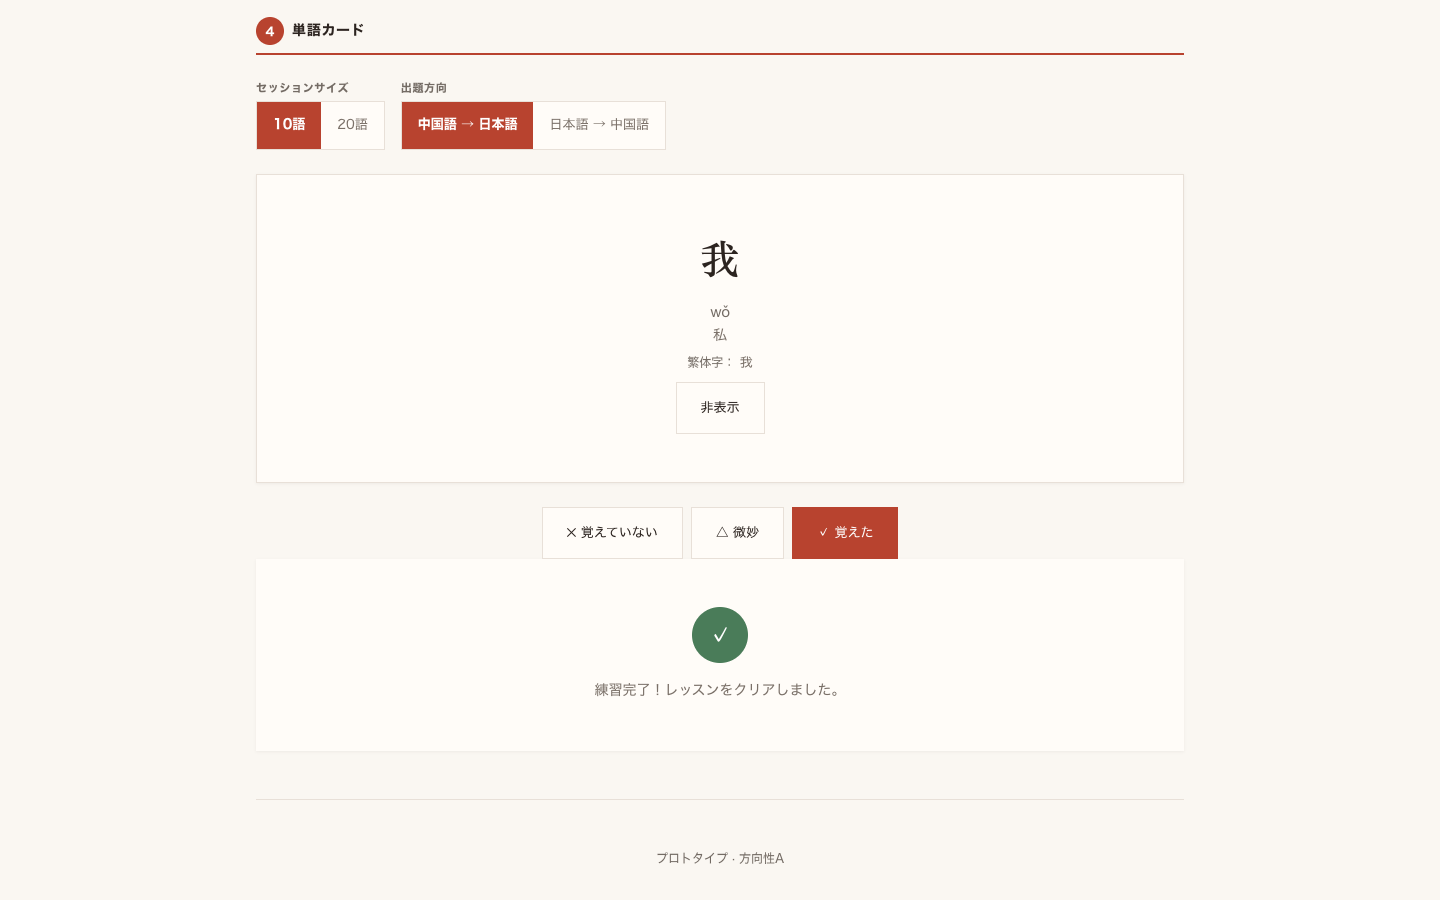
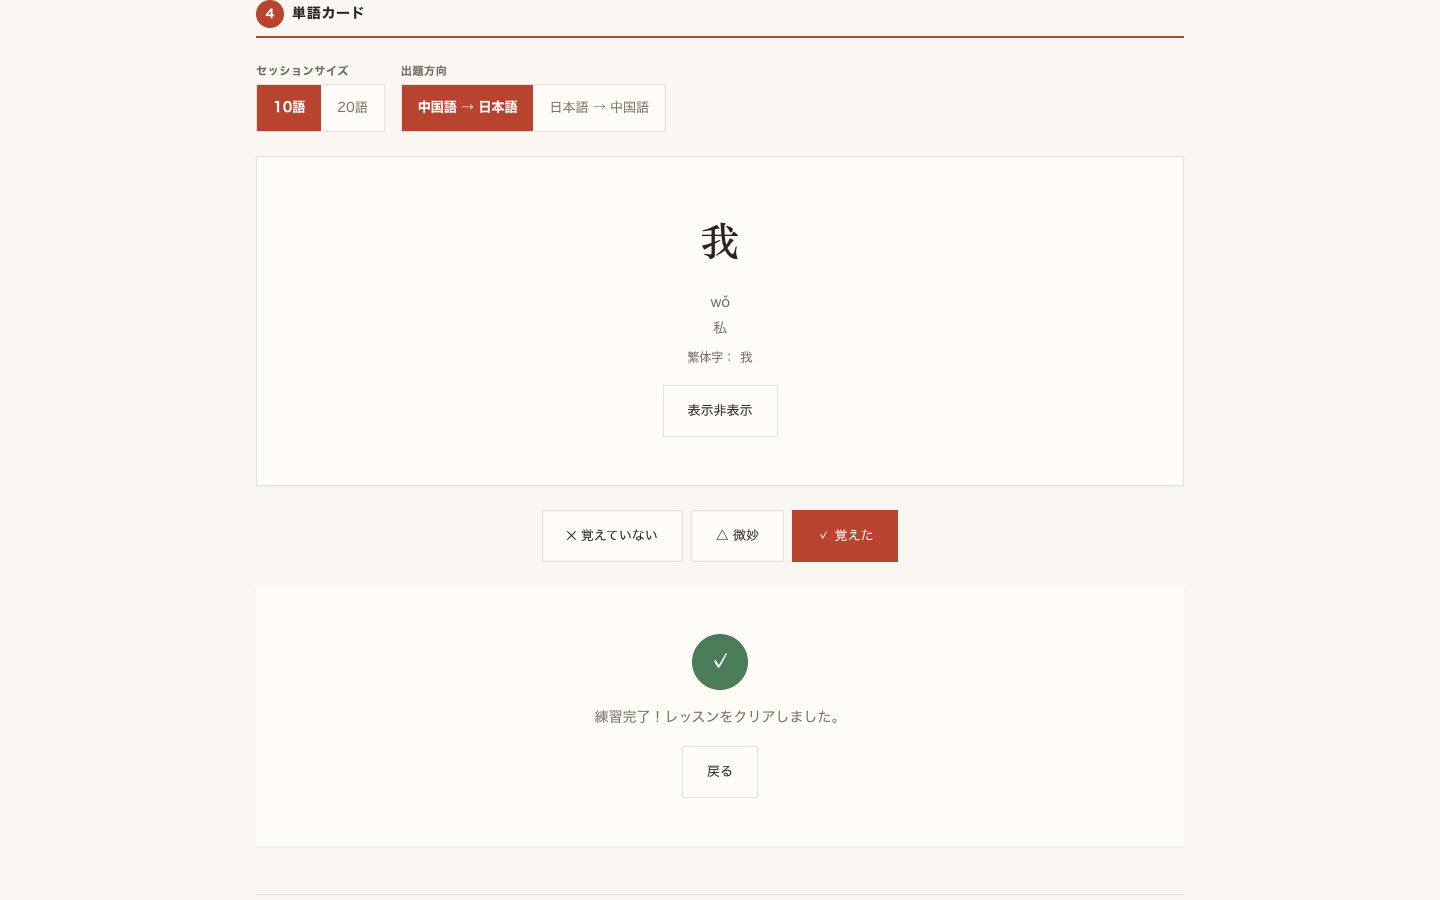
fix(a11y): replace label role=button with native controls for keyboard operability
- Setup: native radio + radiogroup, clip-hidden with input:focus-visible + label
- Reveal/hide: native details/summary, Enter/Space-operable
- Completion: native <a href="#..."> + :target CSS
- Remove all role=button, tabindex, static aria-pressed, hidden checkbox hacks
- Preserve lang metadata, 44px targets, responsive layout, editorial character

diff --git a/docs/design/prototypes/direction-a-editorial.html b/docs/design/prototypes/direction-a-editorial.html
@@ -555,11 +555,19 @@
     gap: 0;
     border: 1px solid var(--color-border);
   }
+
+  /* Visually-hidden but keyboard-focusable radio */
   .control-group__options input[type="radio"] {
     position: absolute;
-    opacity: 0;
-    width: 0;
-    height: 0;
+    width: 1px;
+    height: 1px;
+    overflow: hidden;
+    clip: rect(0 0 0 0);
+    white-space: nowrap;
+  }
+  .control-group__options input[type="radio"]:focus-visible + .control-option {
+    outline: 2px solid var(--color-accent);
+    outline-offset: 2px;
   }
   .control-option {
     padding: 12px var(--space-md);
@@ -581,13 +589,6 @@
     background: var(--color-accent);
     color: #fff;
     font-weight: 700;
-  }
-  .control-option:hover:not(:checked + .control-option) {
-    background: #f5f0ea;
-  }
-  .control-option:focus-visible {
-    outline: 2px solid var(--color-accent);
-    outline-offset: 2px;
   }
 
   .flashcard {
@@ -628,17 +629,63 @@
     font-size: 0.75rem;
     color: var(--color-text-muted);
   }
-  .flashcard__reveal-action,
-  .flashcard__hide-action {
+
+  /* --- Details-based reveal/hide (native, JS-free) ----------- */
+  .flashcard-details {
+    display: flex;
+    flex-direction: column;
+    align-items: center;
+    width: 100%;
     margin-top: var(--space-sm);
   }
+  .flashcard-details summary {
+    list-style: none;
+    cursor: pointer;
+    display: inline-flex;
+    align-items: center;
+    justify-content: center;
+    min-height: 44px;
+    padding: 14px var(--space-lg);
+    font-family: inherit;
+    font-size: 0.8125rem;
+    border: 1px solid var(--color-border);
+    background: var(--color-surface);
+    color: var(--color-text);
+    border-radius: 0;
+    transition: all 0.15s;
+    min-width: 72px;
+  }
+  .flashcard-details summary::-webkit-details-marker { display: none; }
+  .flashcard-details summary::after { content: "表示"; }
+  .flashcard-details[open] summary::after { content: "非表示"; }
+  .flashcard-details summary:hover { border-color: var(--color-accent); }
+  .flashcard-details summary:focus-visible {
+    outline: 2px solid var(--color-accent);
+    outline-offset: 2px;
+  }
 
-  .flashcard-actions {
+  /* When open, push summary to bottom via flex order */
+  .flashcard-details[open] summary {
+    order: 10;
+    margin-top: var(--space-md);
+  }
+  .flashcard-details[open] .flashcard-details__body {
+    display: flex;
+    flex-direction: column;
+    align-items: center;
+    gap: 2px;
+  }
+
+  /* Rating actions — only visible when details open */
+  .flashcard-actions { display: none; }
+  #vocabulary:has(.flashcard-details[open]) .flashcard-actions {
     display: flex;
     justify-content: center;
     gap: var(--space-sm);
     flex-wrap: wrap;
+    margin-bottom: var(--space-lg);
   }
+
   .flashcard-btn {
     padding: 14px var(--space-lg);
     font-family: inherit;
@@ -669,27 +716,9 @@
     background: #a03a28;
   }
 
-  /* --- State Toggles (JS-free: checkbox + target) ------------ */
-  .state-toggle {
-    position: absolute;
-    opacity: 0;
-    width: 0;
-    height: 0;
-  }
-
-  /* Default hidden state: only front + reveal control */
-  .flashcard__revealed-only { display: none; }
-  .flashcard__hidden-only { display: flex; flex-direction: column; align-items: center; }
-  .flashcard-actions { display: none; }
-  .completion { display: none; }
-
-  /* Revealed state: hide hidden-only, show revealed-only + rating */
-  #vocabulary:has(#reveal-cb:checked) .flashcard__hidden-only { display: none; }
-  #vocabulary:has(#reveal-cb:checked) .flashcard__revealed-only { display: block; }
-  #vocabulary:has(#reveal-cb:checked) .flashcard-actions { display: flex; }
-
-  /* Completion state */
-  #vocabulary:has(#completed-cb:checked) .completion { display: block; }
+  /* Completion via :target — hidden by default, shown on hash match */
+  .completion--vocab { display: none; }
+  .completion--vocab:target { display: block; }
 
   /* --- Progress Summary -------------------------------------- */
   .progress-summary {
@@ -982,68 +1011,57 @@
       <span class="section-heading__text">単語カード</span>
     </div>
 
-    <!-- Session Setup -->
+    <!-- Session Setup: native radio semantics -->
     <div class="flashcard-controls">
       <div class="control-group">
         <span class="control-group__label" id="size-label" lang="ja">セッションサイズ</span>
-        <div class="control-group__options" role="group" aria-labelledby="size-label">
+        <div class="control-group__options" role="radiogroup" aria-labelledby="size-label">
           <input type="radio" name="size" id="size-10" value="10" checked>
-          <label for="size-10" class="control-option" role="button" aria-pressed="true" tabindex="0" lang="ja">10語</label>
+          <label for="size-10" class="control-option" lang="ja">10語</label>
           <input type="radio" name="size" id="size-20" value="20">
-          <label for="size-20" class="control-option" role="button" aria-pressed="false" tabindex="0" lang="ja">20語</label>
+          <label for="size-20" class="control-option" lang="ja">20語</label>
         </div>
       </div>
       <div class="control-group">
         <span class="control-group__label" id="direction-label" lang="ja">出題方向</span>
-        <div class="control-group__options" role="group" aria-labelledby="direction-label">
+        <div class="control-group__options" role="radiogroup" aria-labelledby="direction-label">
           <input type="radio" name="direction" id="dir-cn-ja" value="cn-ja" checked>
-          <label for="dir-cn-ja" class="control-option" role="button" aria-pressed="true" tabindex="0" lang="ja">中国語 → 日本語</label>
+          <label for="dir-cn-ja" class="control-option" lang="ja">中国語 → 日本語</label>
           <input type="radio" name="direction" id="dir-ja-cn" value="ja-cn">
-          <label for="dir-ja-cn" class="control-option" role="button" aria-pressed="false" tabindex="0" lang="ja">日本語 → 中国語</label>
+          <label for="dir-ja-cn" class="control-option" lang="ja">日本語 → 中国語</label>
         </div>
       </div>
     </div>
 
-    <!-- State toggles (hidden checkboxes, must precede controlled siblings) -->
-    <input type="checkbox" id="reveal-cb" class="state-toggle">
-    <input type="checkbox" id="completed-cb" class="state-toggle">
-
-    <!-- Flashcard -->
+    <!-- Flashcard with native details/summary reveal -->
     <div class="flashcard">
       <div class="flashcard__front" lang="zh-Hans">我</div>
 
-      <!-- Hidden state (default): only front + reveal control -->
-      <div class="flashcard__hidden-only">
-        <div class="flashcard__reveal-action">
-          <label for="reveal-cb" class="flashcard-btn" tabindex="0" role="button" lang="ja">表示</label>
+      <details class="flashcard-details">
+        <summary lang="ja">表示</summary>
+        <div class="flashcard-details__body">
+          <div class="flashcard__pinyin" lang="zh-Latn">wǒ</div>
+          <div class="flashcard__ja" lang="ja">私</div>
+          <div class="flashcard__trad">
+            <span class="flashcard__trad-label" lang="ja">繁体字：</span>
+            <span lang="zh-Hant">我</span>
+          </div>
         </div>
-      </div>
-
-      <!-- Revealed state: all fields + hide control -->
-      <div class="flashcard__revealed-only">
-        <div class="flashcard__pinyin" lang="zh-Latn">wǒ</div>
-        <div class="flashcard__ja" lang="ja">私</div>
-        <div class="flashcard__trad">
-          <span class="flashcard__trad-label" lang="ja">繁体字：</span>
-          <span lang="zh-Hant">我</span>
-        </div>
-        <div class="flashcard__hide-action">
-          <label for="reveal-cb" class="flashcard-btn" tabindex="0" role="button" lang="ja">非表示</label>
-        </div>
-      </div>
+      </details>
     </div>
 
-    <!-- Rating actions (shown only after reveal) -->
+    <!-- Rating actions — native links with :target completion -->
     <div class="flashcard-actions">
-      <label for="completed-cb" class="flashcard-btn" tabindex="0" role="button" lang="ja">✕ 覚えていない</label>
-      <label for="completed-cb" class="flashcard-btn" tabindex="0" role="button" lang="ja">△ 微妙</label>
-      <label for="completed-cb" class="flashcard-btn flashcard-btn--primary" tabindex="0" role="button" lang="ja">✓ 覚えた</label>
+      <a href="#vocab-completion" class="flashcard-btn" lang="ja">✕ 覚えていない</a>
+      <a href="#vocab-completion" class="flashcard-btn" lang="ja">△ 微妙</a>
+      <a href="#vocab-completion" class="flashcard-btn flashcard-btn--primary" lang="ja">✓ 覚えた</a>
     </div>
 
-    <!-- Completion State -->
-    <div class="completion" id="vocab-completion">
+    <!-- Completion State: :target-activated -->
+    <div class="completion completion--vocab" id="vocab-completion">
       <div class="completion__icon">✓</div>
       <div class="completion__text" lang="ja">練習完了！レッスンをクリアしました。</div>
+      <a href="#" class="flashcard-btn" lang="ja" style="margin-top: var(--space-md);">戻る</a>
     </div>
 
   </section>
